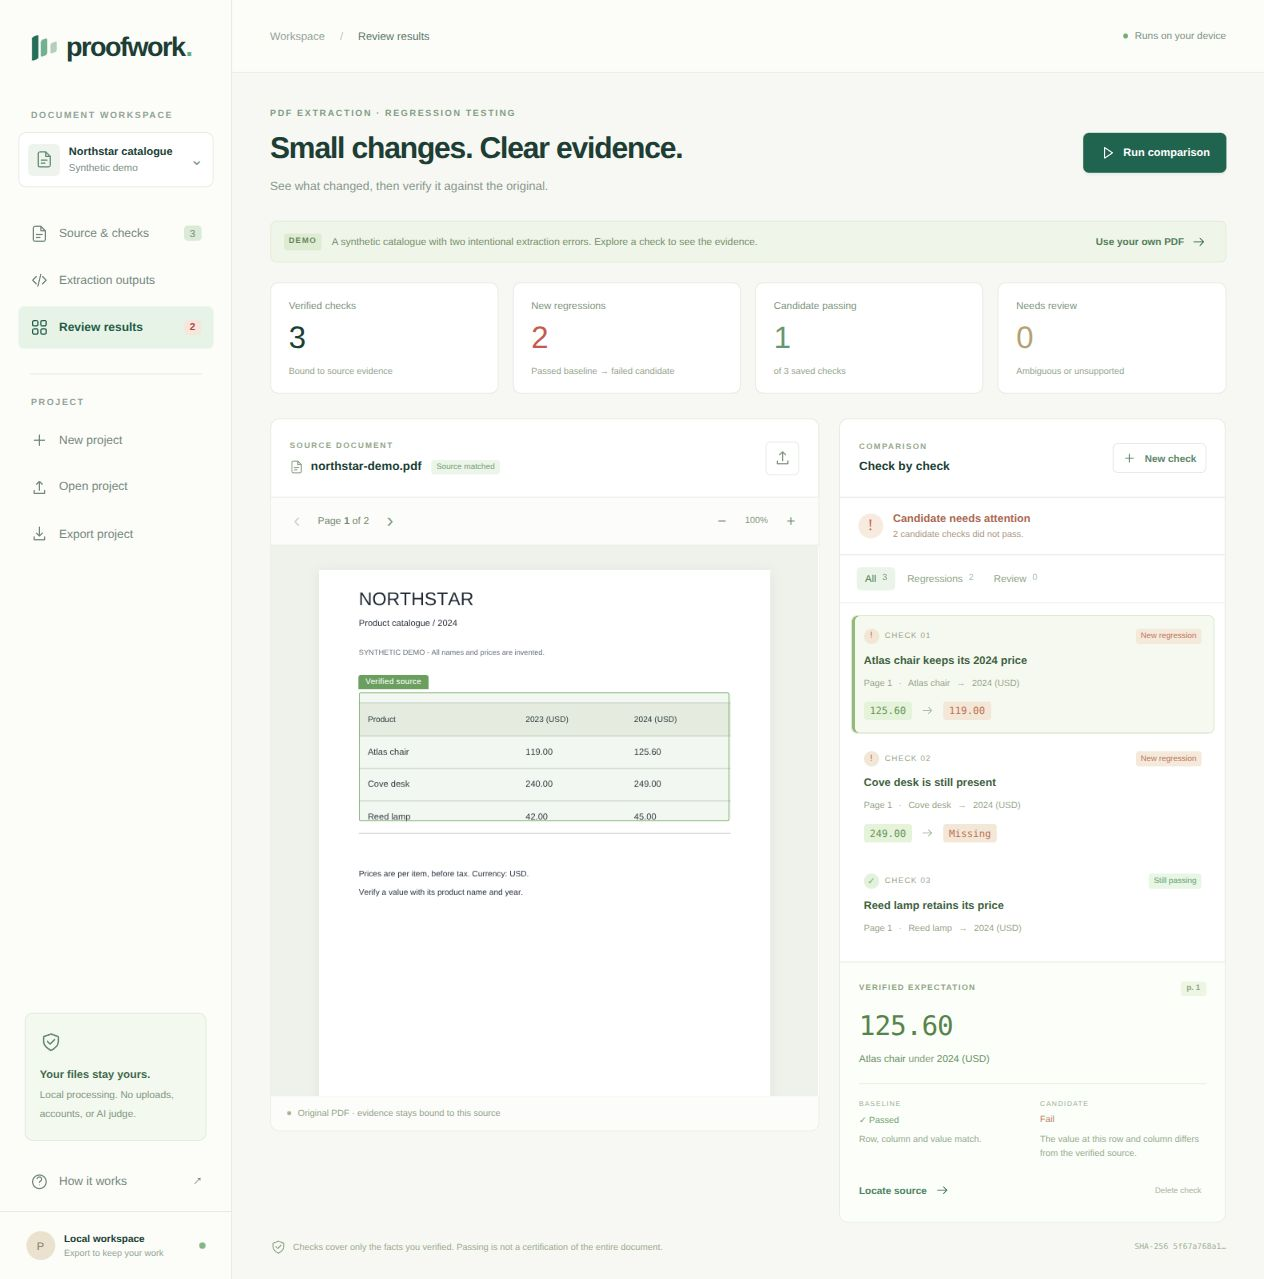
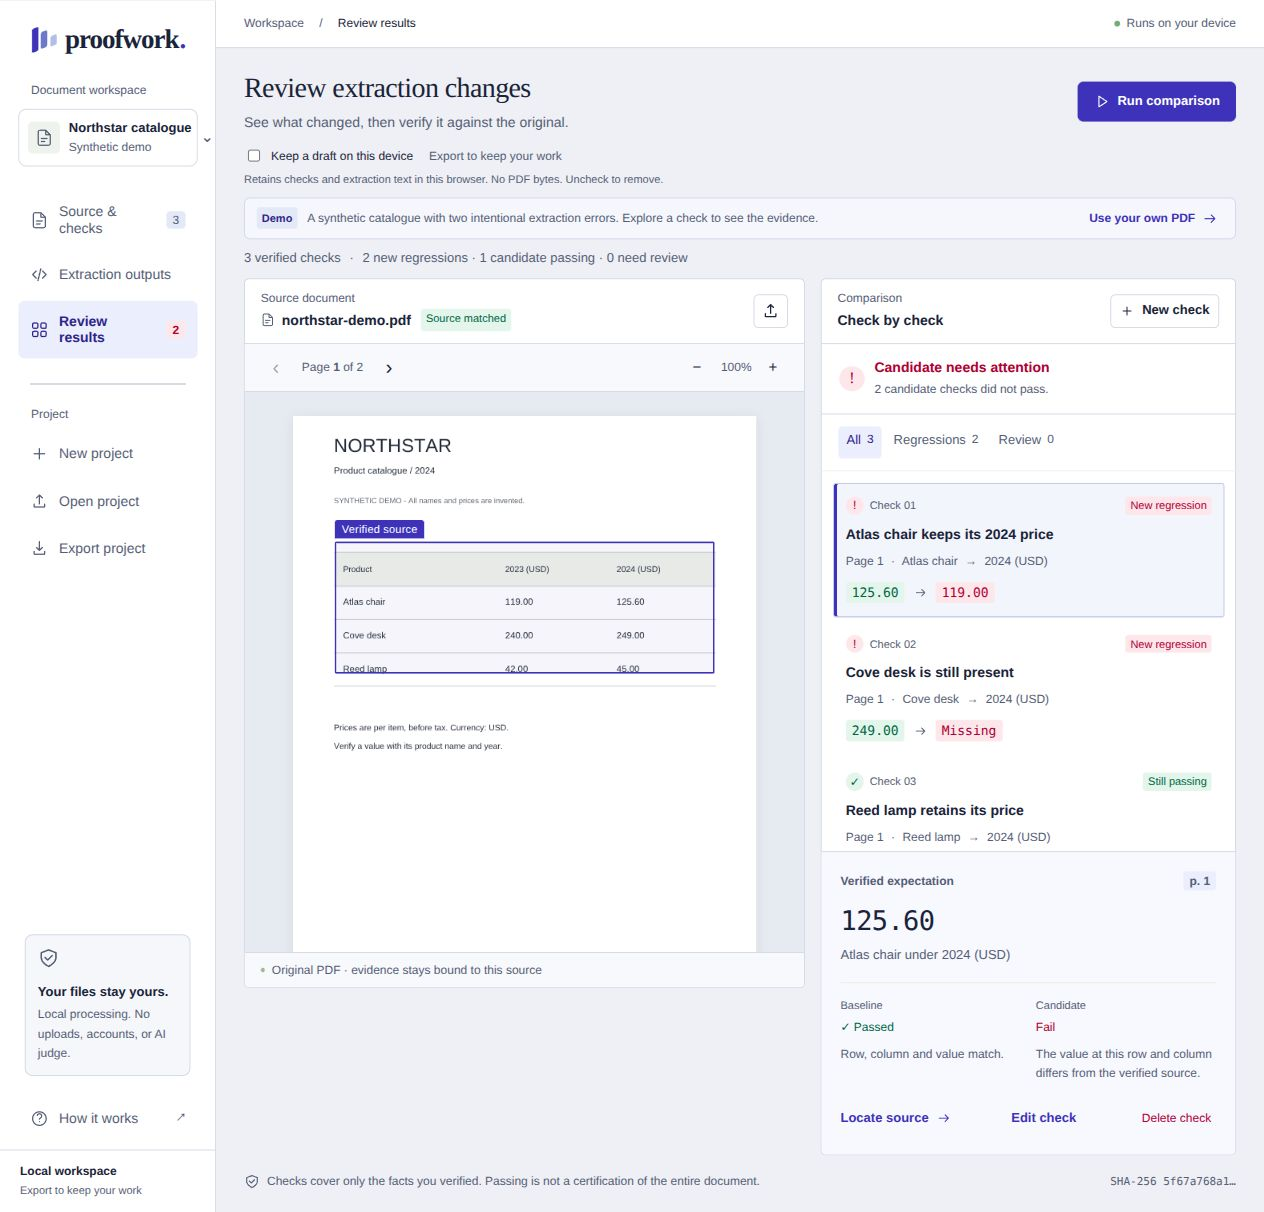
Document competitor evidence and public Pages acceptance results

diff --git a/docs/IMPROVEMENTS.md b/docs/IMPROVEMENTS.md
@@ -67,3 +67,17 @@ Opened pdfmarkdown.app and clicked “Try a sample” once. Its public 15-page r
 - Delete cancellation preserved the project. Replacement/delete use a named in-app dialog; portable export remains available before replacement.
 - At the same default desktop viewport (720 px high), initial synthetic-demo source panel document Y changed from 418.7 px to 278.1 px (140.6 px earlier). Counts are unchanged: two regressions, one passing control. This measures layout, not user speed or success.
 - No user study or comparative extraction latency benchmark was run. The 7 → 4 pointer-action count applies to a simple supported table; keyboard region entry adds actions to both routes.
+
+## Public-site acceptance
+
+Published at https://georgefifth.github.io/proofwork/ and opened the actual HTTPS site. GitHub Actions run 38110907003 completed tests, production build and Pages deployment successfully (https://github.com/Georgefifth/proofwork/actions/runs/38110907003).
+
+On that public version: sample PDF/worker rendered; original demo returned two regressions and one passing control. Editing required renewed confirmation and kept three checks. Cell-prefill plus keyboard evidence created a fourth check; device save/reload restored four checks and the edited name without PDF. Reattaching the original PDF returned three regressions/one control. Replacing candidate text with baseline text invalidated results and a fresh run passed all four checks. Copy JSON reported success; its visible exported JSON passed the local CLI with matching PDF (exit 0, four checks). New-project replacement used the in-app dialog.
+
+A download-event capture for Download JSON timed out in the in-app browser. File delivery through its download manager remains unverified; JSON copy/export contents and CLI portability were verified. No claim is made that the download-manager interaction passed.
+
+Responsive test used an actual 390 px CSS viewport (375 px client area after scrollbar); document scrollWidth equalled clientWidth, with no page-level horizontal overflow. The project menu remained available. Desktop source-panel measurement above uses the same original demo state; mobile numbers are not mixed into that comparison.
+
+Remaining constraints: table ordinal must stay stable; complex/nested structures can need review; no cross-page table merging, batch suite or OCR; only one optional device draft per origin (multiple opted-in tabs can replace it). PDF reattachment is deliberate. Save completion must be visible before closing; portable JSON remains the backup. Real-user task time, error rate, willingness to adopt and comparative parser performance have not been measured.
+
+Starting a new project while device saving was enabled showed “previous draft removed”; reloading returned the initial three-check demo, rather than resurrecting the old four-check draft. Verification test data was removed before leaving the public site open. Screenshots: preview-before.jpg records the earlier local layout; preview.jpg records the deployed review workspace. Browser console inspection during public checks reported no errors.

diff --git a/docs/DEPLOYMENT.md b/docs/DEPLOYMENT.md
@@ -11,3 +11,11 @@ The product has its own local Git repository. The unrelated ancestor repository 
 ## Publish preflight
 
 Only product source/docs, synthetic example PDF and synthetic project JSON should be staged. node_modules, dist, .env*, credentials, temporary fixtures and local deployment outputs are ignored. Search staged text for private key blocks, token formats and private data; manually inspect file inventory and documentation. Do not stage the ancestor checkout or home directory.
+
+## Published result
+
+Repository: https://github.com/Georgefifth/proofwork
+
+Live site: https://georgefifth.github.io/proofwork/
+
+Pages source is GitHub Actions with HTTPS enforced. The first workflow passed all 20 tests/build and deployed successfully. The public site was opened and exercised for PDF loading, intentional regressions, editing, authoring, device restore and corrected-output pass; see IMPROVEMENTS.md for evidence and limits. This is browser-only execution: hosting never receives document uploads. CLI usage is local or separate CI.

diff --git a/docs/VALIDATION.md b/docs/VALIDATION.md
@@ -26,3 +26,7 @@ The in-app browser download-event capture did not complete, so download-manager 
 ## Product limits
 
 The current product verifies saved table facts, not all document content. It has optional device draft storage, but no semantic table matching, cross-page table reconciliation, or OCR. Export for portable backups. Usability gains and adoption remain to be measured with real users.
+
+## Improvement release (2026-10-11)
+
+20 automated tests now pass. Production build and GitHub Pages deployment passed, and the actual public version was exercised. See [IMPROVEMENTS.md](IMPROVEMENTS.md) for current workflow measurements, browser checks, and limits; earlier observations above describe the initial MVP. Download-manager delivery remains unverified, while copyable project JSON and CLI interoperability passed.

diff --git a/README.md b/README.md
@@ -2,6 +2,8 @@
 
 A local PDF extraction regression workbench. Confirm a table fact in the original PDF, save its source evidence, and check it against baseline and candidate extraction outputs.
 
+Try the [live workspace](https://georgefifth.github.io/proofwork/), or browse the [repository](https://github.com/Georgefifth/proofwork). All document processing stays in your browser.
+
 ## Run
 
 Requires Node 22 or newer.
